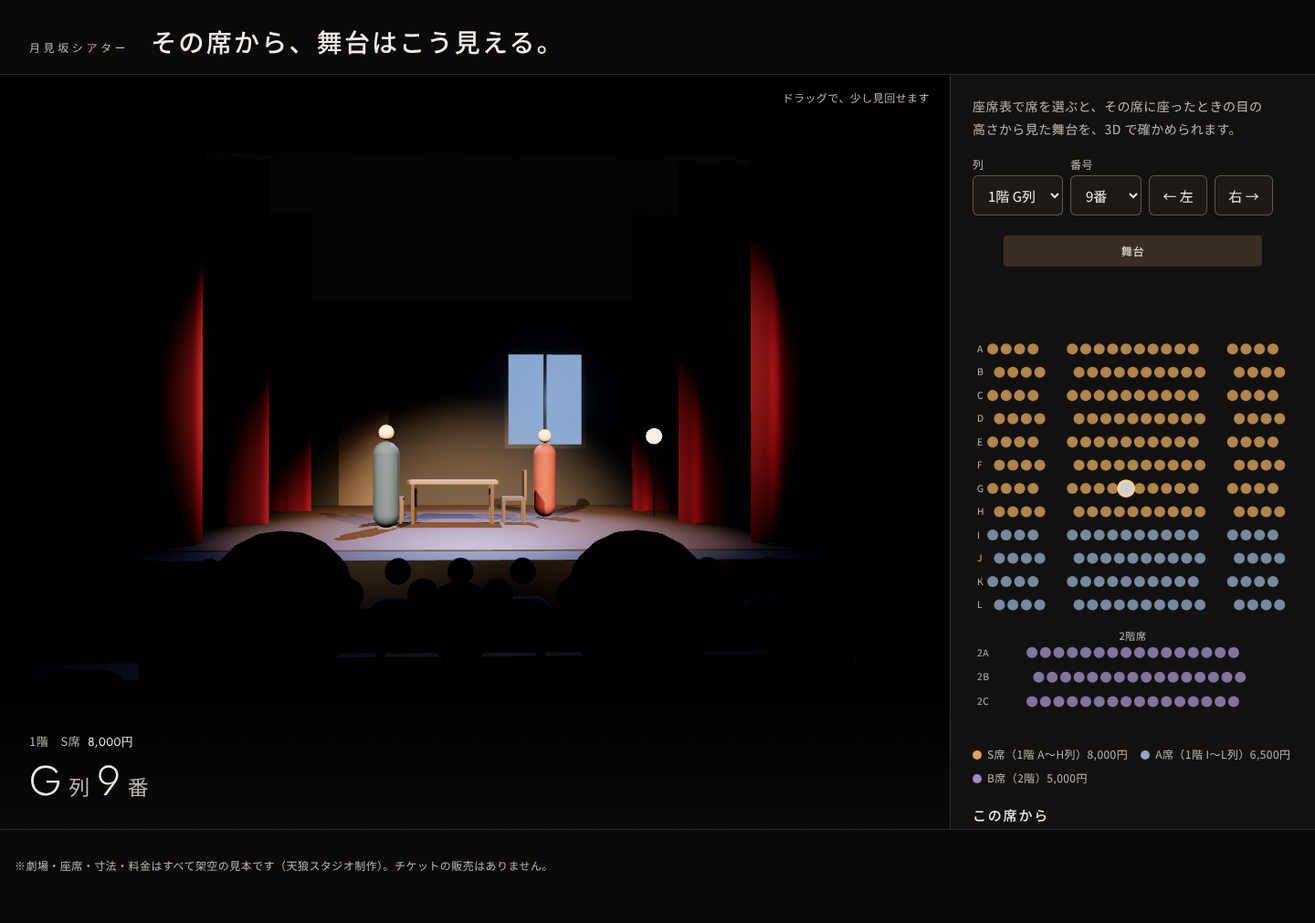
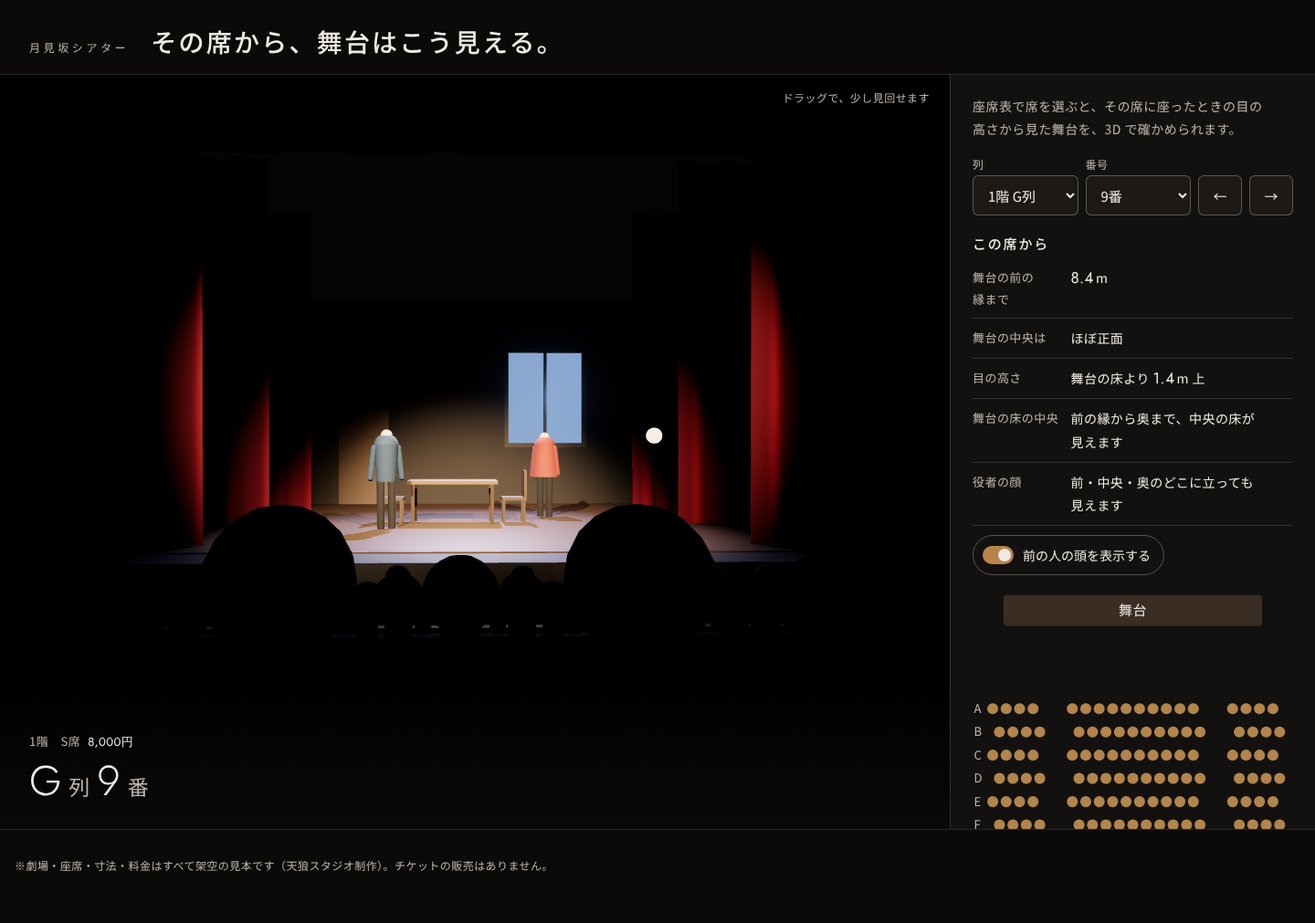
S02-04：審査1回目の指摘を反映（前の人の頭・首・肩と3列前までの視線を3Dで判定、手すりとひさしも同じ判定に、天井高の破綻を直す、人の形の俳優、ひさしで隠れる範囲を帯で示す、座席表を矢印キーで操作、スマホは3Dを上に貼り付け）
Claude-Session: https://claude.ai/code/session_01BwmUGTgfPEj1Tu5124aDtq

diff --git a/studio/projects/S02-04-seatview/site/app.js b/studio/projects/S02-04-seatview/site/app.js
@@ -22,48 +22,62 @@ function fillNum(r, n) { const s = $('num'); s.textContent = ''; for (const x of
 F.zones.forEach(([name, where, price, col]) => { const sp = el('span'); const i = el('i'); i.style.background = col; sp.append(i, `${name}（${where}）${price}`); $('legend').append(sp); });
 
 // 座席表（上が舞台）。1階と2階を縦に並べる
-const NS = 'http://www.w3.org/2000/svg', svg = $('map');
+const NS = 'http://www.w3.org/2000/svg', svg = $('map'); svg.setAttribute('role', 'radiogroup'); svg.setAttribute('aria-label', '座席表（上が舞台）。矢印キーで席を移れます');
 const mk = (t, a) => { const e = document.createElementNS(NS, t); for (const k in a) e.setAttribute(k, a[k]); return e; };
-const SC = 30, X0 = 6.2, BAL_OFF = 4.2;   // 1m＝30、2階は1階の下に寄せて描く
+const SC = 30, X0 = 6.2, BAL_OFF = G.floor_first_z + (G.floor_rows.length - 1) * G.row_pitch + 1.5 - G.balcony_front_z;   // 1m＝30、2階は1階の下に寄せて描く
 const mapY = s => (s.fl === 1 ? s.z : s.z + BAL_OFF) * SC;
 const H = (G.balcony_front_z + .55 + 3 * G.balcony_pitch + BAL_OFF + .4) * SC;
 svg.setAttribute('viewBox', `0 ${-1.6 * SC} ${X0 * 2 * SC} ${H + 1.6 * SC}`);
 svg.append(mk('rect', { x: (X0 - G.stage_width / 2) * SC, y: -1.4 * SC, width: G.stage_width * SC, height: 1.2 * SC, rx: 4, fill: '#3a2e24' }));
-const tx = (x, y, s, a = {}) => { const t = mk('text', { x, y, fill: '#bdb6ab', 'font-size': 13, 'text-anchor': 'middle', 'font-family': 'Noto Sans JP, sans-serif', ...a }); t.textContent = s; svg.append(t); };
+const tx = (x, y, s, a = {}) => { const t = mk('text', { x, y, fill: '#bdb6ab', 'font-size': 16, 'aria-hidden': 'true', 'text-anchor': 'middle', 'font-family': 'Noto Sans JP, sans-serif', ...a }); t.textContent = s; svg.append(t); };
 tx(X0 * SC, -.6 * SC, '舞台', { fill: '#efebe4' });
-tx(X0 * SC, (G.balcony_front_z + BAL_OFF + .05) * SC, '2階席', { 'font-size': 12 });
-for (const r of rows) { const s = rowSeats(r)[0]; tx(.18 * SC, mapY(s) + 4, r, { 'font-size': 11, 'text-anchor': 'start' }); }
+tx(X0 * SC, (G.balcony_front_z + BAL_OFF + .05) * SC, '2階席', { 'font-size': 14 });
+for (const r of rows) { const s = rowSeats(r)[0]; tx(.05 * SC, mapY(s) + 5, r, { 'font-size': 14, 'text-anchor': 'start' }); }
 const dots = {};
 for (const s of seats) {
-  const c = mk('circle', { cx: (s.x + X0) * SC, cy: mapY(s), r: 6.4, fill: F.zones[s.zone][3], class: 's', 'fill-opacity': .8 });
-  c.addEventListener('click', () => select(s.id)); svg.append(c); dots[s.id] = c;
+  const g = mk('g', { class: 's', role: 'radio', tabindex: -1, 'aria-checked': 'false', 'aria-label': `${s.fl === 2 ? '2階 ' : ''}${s.row.replace(/^2/, '')}列${s.n}番 ${F.zones[s.zone][0]}` });
+  const c = mk('circle', { cx: (s.x + X0) * SC, cy: mapY(s), r: 6.4, fill: F.zones[s.zone][3], 'fill-opacity': .8 });
+  g.append(c, mk('circle', { cx: (s.x + X0) * SC, cy: mapY(s), r: 11, fill: 'transparent' }));   // 押せる範囲は見た目より広く
+  g.addEventListener('click', () => select(s.id)); svg.append(g); dots[s.id] = c; g.dataset.id = s.id;
 }
 
 // 計算（模型の寸法から）
 const fmt = v => v.toFixed(1);
+// 前の人の体（座った姿勢）：頭は球、首と肩はカプセル。3D の人形と同じ寸法
+const body = p => { const e = p.y + G.eye; return [{ a: [p.x, e + .03, p.z], b: [p.x, e + .03, p.z], r: .11 }, { a: [p.x, e - .18, p.z], b: [p.x, e - .02, p.z], r: .06 }, { a: [p.x - .2, e - .3, p.z + .02], b: [p.x + .2, e - .3, p.z + .02], r: .12 }]; };
+const sub = (a, b) => [a[0] - b[0], a[1] - b[1], a[2] - b[2]], dot = (a, b) => a[0] * b[0] + a[1] * b[1] + a[2] * b[2];
+function segDist(p1, q1, p2, q2) {   // 2本の線分の最短距離
+  const d1 = sub(q1, p1), d2 = sub(q2, p2), r = sub(p1, p2), a = dot(d1, d1), e = dot(d2, d2), f = dot(d2, r);
+  let s, t; if (e < 1e-9) { s = Math.min(1, Math.max(0, -dot(d1, r) / a)); t = 0; } else { const c = dot(d1, r), b = dot(d1, d2), den = a * e - b * b; s = den > 1e-9 ? Math.min(1, Math.max(0, (b * f - c * e) / den)) : 0; t = (b * s + f) / e; if (t < 0) { t = 0; s = Math.min(1, Math.max(0, -c / a)); } else if (t > 1) { t = 1; s = Math.min(1, Math.max(0, (b - c) / a)); } }
+  const c1 = [p1[0] + d1[0] * s, p1[1] + d1[1] * s, p1[2] + d1[2] * s], c2 = [p2[0] + d2[0] * t, p2[1] + d2[1] * t, p2[2] + d2[2] * t], d = sub(c1, c2); return Math.sqrt(dot(d, d));
+}
+// 目から点 T への視線を、前の人・2階の手すり・ひさしがさえぎるか
+function blocked(s, T) {
+  const E = [s.x, s.y + G.eye, s.z];
+  for (const p of seats) { if (p.fl !== s.fl || p.z >= s.z - .1 || s.z - p.z > 3.2) continue; for (const c of body(p)) if (segDist(E, T, c.a, c.b) < c.r) return 'head'; }
+  const atZ = z => E[1] + (T[1] - E[1]) * (E[2] - z) / (E[2] - T[2]);
+  if (s.fl === 2 && atZ(G.balcony_front_z) < G.balcony_floor + .8) return 'rail';
+  if (s.fl === 1 && s.z > G.balcony_front_z && atZ(G.balcony_front_z) > G.balcony_soffit) return 'soffit';
+  return null;
+}
 function facts(s) {
   const ex = s.x, ey = s.y + G.eye, ez = s.z, out = [];
-  const dx = Math.max(0, Math.abs(ex) - G.stage_width / 2);
-  out.push(['舞台の前の縁まで', [el('b', null, fmt(Math.hypot(dx, ez))), 'm']]);
+  const dx = Math.max(0, Math.abs(ex) - G.stage_width / 2), hd = Math.hypot(dx, ez);
+  out.push(['舞台の前の縁まで', s.fl === 2 ? ['水平に ', el('b', null, fmt(hd)), 'm（目は舞台の床より ', el('b', null, fmt(ey - G.stage_height)), 'm 上）'] : [el('b', null, fmt(hd)), 'm']]);
   const ang = Math.atan2(ex, ez + G.stage_depth / 2) * 180 / Math.PI;
   out.push(['舞台の中央は', Math.abs(ang) < 4 ? 'ほぼ正面' : [`正面から${ang < 0 ? '右' : '左'}へ `, el('b', null, String(Math.round(Math.abs(ang)))), '°']]);
-  const dh = ey - G.stage_height;
-  out.push(['目の高さ', [`舞台の床より `, el('b', null, fmt(Math.abs(dh))), `m ${dh >= 0 ? '上' : '下'}`]]);
-  let sight = '';
+  if (s.fl === 1) { const dh = +fmt(ey - G.stage_height); out.push(['目の高さ', [`舞台の床より `, el('b', null, fmt(Math.abs(dh))), `m ${dh >= 0 ? '上' : '下'}`]]); }
+  // 舞台の床：中央の線で、前の縁から奥へ 10cm ずつ、どこから見えるか
+  let first = null, why = null;
+  for (let d = 0; d <= G.stage_depth; d += .1) { const b = blocked(s, [0, G.stage_height, -d]); if (!b) { first = d; break; } if (!why) why = b; }
+  const by = { head: '前の人の頭や肩', rail: '2階の手すり' };
+  out.push(['舞台の床の中央', first === null ? '見えません（前の人の頭や肩が重なります）' : first < .05 ? '前の縁から奥まで、中央の床が見えます' : [`前の方 `, el('b', null, fmt(first)), `m が、${by[why] || 'さえぎるもの'}で隠れます`]]);
+  // 立っている役者の顔の高さ（床から 1.6m）を、前・中央・奥で
+  const faces = [[0, -1.5], [0, -3.4], [0, -6]].map(([x, z]) => blocked(s, [x, G.stage_height + 1.6, z]));
+  out.push(['役者の顔', faces.every(f => !f) ? '前・中央・奥のどこに立っても見えます' : `${['前', '中央', '奥'].filter((_, k) => faces[k]).join('・')}に立つと、${by[faces.find(f => f)] || 'さえぎるもの'}で隠れることがあります`]);
   if (s.fl === 1 && ez > G.balcony_front_z) {
     const top = G.stage_height + G.pros_height, ymax = ey + (G.balcony_soffit - ey) * ez / (ez - G.balcony_front_z), hid = top - ymax;
-    sight = hid > .05 ? `2階席のひさしで、舞台の口の上 ${fmt(hid)}m（高さ ${G.pros_height}m のうち）が隠れます` : '2階席のひさしの下ですが、舞台の口の上まで見えます';
-  } else if (s.fl === 2) {
-    const rail = G.balcony_floor + .8, slope = (ey - rail) / (ez - G.balcony_front_z), zhit = G.balcony_front_z - (rail - G.stage_height) / slope;
-    sight = zhit > 0 ? '手すり越しに、舞台の前の縁まで見えます' : `手すりで、舞台の前の方 ${fmt(-zhit)}m が隠れます`;
-  } else if (dh < .5) sight = '舞台の床がほぼ目の高さなので、奥の床は見えにくくなります';
-  else sight = '舞台全体が、さえぎるものなく見えます';
-  out.push(['見え方', sight]);
-  if (s.fl === 1 && s.ri > 0) {
-    const f = seats.filter(o => o.fl === 1 && o.ri === s.ri - 1).sort((p, q) => Math.abs(p.x - s.x) - Math.abs(q.x - s.x))[0], headTop = f.y + G.eye + .12;   // 斜め前でいちばん近い人
-    const yl = ey + (G.stage_height - ey) * (G.row_pitch / ez);
-    const gap = Math.abs(f.x - s.x), low = Math.round((headTop - yl) * 100);
-    out.push(['前の席の人', yl > headTop ? '頭越しに、舞台の前の縁まで見えます' : gap > .15 ? `斜め前の人の頭のあいだから、舞台の中央の前の縁まで見えます` : low < 2 ? '頭のてっぺんすれすれで、舞台の前の縁まで見えます' : `頭で、舞台の前の縁が少し隠れます（視線が頭のてっぺんより ${low}cm 低い）`]);
+    out.push(['2階席のひさし', hid > .05 ? ['舞台の口の上 ', el('b', null, fmt(hid)), `m（高さ ${G.pros_height}m のうち）が隠れます`] : '下にありますが、舞台の口の上まで見えます']);
   }
   return out;
 }
@@ -72,15 +86,22 @@ let cur = null, onSelect = () => {};
 function select(id, quiet) {
   const s = byId[id]; if (!s) return; cur = s;
   for (const k in dots) { const d = dots[k], on = k === id; d.setAttribute('fill', on ? '#ffffff' : F.zones[byId[k].zone][3]); d.setAttribute('r', on ? 9 : 6.4); d.setAttribute('stroke', on ? '#ffcf96' : 'none'); d.setAttribute('stroke-width', on ? 3 : 0); }
-  svg.append(dots[id]);
+  svg.querySelectorAll('.s').forEach(g => { const on = g.dataset.id === id; g.setAttribute('aria-checked', String(on)); g.tabIndex = on ? 0 : -1; }); svg.append(dots[id].parentNode);
   $('row').value = s.row; fillNum(s.row, s.n);
   const z = F.zones[s.zone]; $('zone').textContent = `${s.fl === 2 ? '2階' : '1階'}　${z[0]}`; $('zone').append(el('b', null, z[2]));
-  const h = $('seatname'); h.textContent = ''; h.append(s.row.replace(/^2/, ''), el('small', null, '列'), String(s.n), el('small', null, '番'));
+  const h = $('seatname'); h.textContent = ''; if (s.fl === 2) h.append(el('small', 'fl', '2階')); h.append(s.row.replace(/^2/, ''), el('small', null, '列'), String(s.n), el('small', null, '番'));
   const dl = $('info'); dl.textContent = '';
   for (const [k, v] of facts(s)) { const d = el('div'), dd = el('dd'); [].concat(v).forEach(x => dd.append(x)); d.append(el('dt', null, k), dd); dl.append(d); }
   if (!quiet) try { history.replaceState(null, '', `#${id}`); } catch {}
   onSelect(s, quiet);
 }
+svg.addEventListener('keydown', e => {
+  const k = e.key; if (!['ArrowLeft', 'ArrowRight', 'ArrowUp', 'ArrowDown', 'Home', 'End'].includes(k)) return; e.preventDefault();
+  if (k === 'ArrowLeft' || k === 'ArrowRight') step(k === 'ArrowLeft' ? -1 : 1);
+  else if (k === 'Home' || k === 'End') select(`${cur.row}-${k === 'Home' ? 1 : rowSeats(cur.row).length}`);
+  else { const ri = rows.indexOf(cur.row) + (k === 'ArrowUp' ? -1 : 1); if (ri < 0 || ri >= rows.length) return; const near = rowSeats(rows[ri]).sort((a, b) => Math.abs(a.x - cur.x) - Math.abs(b.x - cur.x))[0]; select(near.id); }
+  svg.querySelector(`[data-id="${cur.id}"]`).focus();
+});
 $('row').addEventListener('change', () => { const r = $('row').value, list = rowSeats(r), n = Math.min(cur.n, list.length); select(`${r}-${n}`); });
 $('num').addEventListener('change', () => select(`${cur.row}-${$('num').value}`));
 const step = d => { const list = rowSeats(cur.row), n = Math.min(list.length, Math.max(1, cur.n + d)); select(`${cur.row}-${n}`); };
@@ -122,8 +143,18 @@ select(byId[location.hash.slice(1)] ? location.hash.slice(1) : F.default_seat, t
   chair(-1.5, -3.4, Math.PI / 2); chair(.7, -3.4, -Math.PI / 2);
   add(new THREE.CylinderGeometry(.02, .02, 1.6, 8), std(0x222222, .4, .8), 3.6, SH + .8, -4.5); add(new THREE.SphereGeometry(.16, 16, 12), new THREE.MeshStandardMaterial({ color: 0, emissive: 0xffd8a0, emissiveIntensity: 2 }), 3.6, SH + 1.62, -4.5, false);
   // 俳優（形だけ）
-  const actor = (x, z, c) => { const m = std(c, .8); add(new THREE.CapsuleGeometry(.22, 1.0, 6, 12), m, x, SH + .75, z); add(new THREE.SphereGeometry(.13, 16, 12), std(0xc9a58a, .7), x, SH + 1.62, z); };
-  actor(-1.5, -2.5, 0x2c3e50); actor(1.4, -4.4, 0x6b2d2d);
+  // 俳優（身長 1.65m の人の形。顔は描かず、明かりの当たり方だけ）
+  const actor = (x, z, ry, c, coat) => {
+    const g = new THREE.Group(), cloth = std(c, .75), skin = std(0xb8927a, .65), part = (geo, m, px, py, pz, rx = 0, rz = 0) => { const o = new THREE.Mesh(geo, m); o.position.set(px, py, pz); o.rotation.set(rx, 0, rz); o.castShadow = true; g.add(o); };
+    for (const sx of [-1, 1]) part(new THREE.CylinderGeometry(.07, .06, .82, 10), std(0x1e1c1a, .7), sx * .1, .41, 0);
+    part(new THREE.CylinderGeometry(.21, coat ? .3 : .17, .62, 14), cloth, 0, 1.12, 0);
+    part(new THREE.SphereGeometry(.21, 14, 8, 0, Math.PI * 2, 0, Math.PI / 2), cloth, 0, 1.4, 0);
+    for (const sx of [-1, 1]) part(new THREE.CapsuleGeometry(.05, .5, 4, 8), cloth, sx * .25, 1.12, 0, 0, sx * .12);
+    part(new THREE.CylinderGeometry(.05, .055, .1, 10), skin, 0, 1.47, 0); part(new THREE.SphereGeometry(.1, 18, 14), skin, 0, 1.58, .01);
+    g.position.set(x, SH, z); g.rotation.y = ry; scene.add(g);
+  };
+  actor(-1.5, -2.5, .5, 0x2c3e50, false); actor(1.4, -4.4, -.6, 0x6b2d2d, true);
+  const rimL = new THREE.SpotLight(0xffd6a6, 60, 20, .5, .7, 1.4); rimL.position.set(0, SH + 6, -SD + .8); rimL.target.position.set(0, SH + 1, -3); scene.add(rimL, rimL.target);
 
   // 照明：客席の上の前明かり2台、奥からの明かり、窓の月明かり、客席は暗く
   const spot = (c, I, p, t, a) => { const s = new THREE.SpotLight(c, I, 40, a, .6, 1.2); s.position.set(...p); s.target.position.set(...t); s.castShadow = true; s.shadow.mapSize.set(1024, 1024); s.shadow.bias = -.0005; scene.add(s, s.target); return s; };
@@ -138,27 +169,29 @@ select(byId[location.hash.slice(1)] ? location.hash.slice(1) : F.default_seat, t
   add(new THREE.BoxGeometry(16, .02, 3), carpet, 0, .0, 1.4, false);
   add(new THREE.BoxGeometry(16, .6, 4.4), std(0x1b1513, .9), 0, G.balcony_soffit + .3, G.balcony_front_z + 2.2);
   add(new THREE.BoxGeometry(16, .8, .12), std(0x2a201b, .7), 0, G.balcony_floor + .4, G.balcony_front_z + .05);
+  add(new THREE.BoxGeometry(16, .03, .03), new THREE.MeshStandardMaterial({ color: 0x2a201b, emissive: 0x6a4a2e, emissiveIntensity: 1 }), 0, G.balcony_soffit, G.balcony_front_z - .02, false);   // ひさしの軒先（ここで視界が切れる）
+  const bandM = new THREE.MeshBasicMaterial({ color: 0xffcf96, transparent: true, opacity: 0, depthWrite: false }); const band = new THREE.Mesh(new THREE.PlaneGeometry(SW, 1), bandM); band.position.z = -.24; scene.add(band);
   G.balcony_rows.forEach((_, i) => add(new THREE.BoxGeometry(16, .02 + i * G.balcony_rake, G.balcony_pitch), carpet, 0, G.balcony_floor + i * G.balcony_rake / 2, G.balcony_front_z + .55 + i * G.balcony_pitch, false));
   for (const sx of [-1, 1]) add(new THREE.BoxGeometry(.3, 12, 20), std(0x1e1714, .95), sx * 8, 6, 8, false);
   // 客席の壁の小さな灯り（上演中も足もとのためにごく弱く点いている）
   for (const sx of [-1, 1]) for (const z of [3, 6.5, 10]) { add(new THREE.BoxGeometry(.06, .22, .12), new THREE.MeshStandardMaterial({ color: 0, emissive: 0xffc58a, emissiveIntensity: 1.2 }), sx * 7.83, 2.6, z, false); const l = new THREE.PointLight(0xffb070, .6, 3.5, 2); l.position.set(sx * 7.6, 2.6, z); scene.add(l); }
   const backM = new THREE.MeshStandardMaterial({ color: 0x5a1a1c, roughness: .85 });
   const backs = new THREE.InstancedMesh(new THREE.BoxGeometry(.46, .8, .08), backM, seats.length);
-  const headM = std(0x1a1614, .9), heads = new THREE.InstancedMesh(new THREE.SphereGeometry(.11, 14, 10), headM, seats.length), shoulders = new THREE.InstancedMesh(new THREE.CapsuleGeometry(.12, .2, 4, 8), headM, seats.length);
+  const headM = std(0x1a1614, .9), heads = new THREE.InstancedMesh(new THREE.SphereGeometry(.11, 14, 10), headM, seats.length), shoulders = new THREE.InstancedMesh(new THREE.CapsuleGeometry(.12, .4, 4, 8), headM, seats.length), necks = new THREE.InstancedMesh(new THREE.CylinderGeometry(.06, .06, .16, 10), headM, seats.length);
   shoulders.rotation.z = 0;
   const M = new THREE.Matrix4(), Q = new THREE.Quaternion(), SV = new THREE.Vector3(1, 1, 1), P = new THREE.Vector3();
   seats.forEach((s, k) => { M.compose(P.set(s.x, s.y + .45, s.z + .3), Q, SV); backs.setMatrixAt(k, M); });
-  scene.add(backs, heads, shoulders);
+  scene.add(backs, heads, shoulders, necks);
   const ZERO = new THREE.Vector3(0, 0, 0);
   function placeHeads() {
     seats.forEach((s, k) => {
       // 自分の席と後ろの席は消す。2階から見るときは1階の人も見える。1階から2階の人は見えない
       const show = s !== cur && (s.fl === cur.fl ? s.z < cur.z - .01 : cur.fl === 2);
-      if (!headsShow || !show) { M.compose(P.set(0, -50, 0), Q, ZERO); heads.setMatrixAt(k, M); shoulders.setMatrixAt(k, M); return; }
-      M.compose(P.set(s.x, s.y + G.eye + .03, s.z), Q, SV); heads.setMatrixAt(k, M);
+      if (!headsShow || !show) { M.compose(P.set(0, -50, 0), Q, ZERO); heads.setMatrixAt(k, M); shoulders.setMatrixAt(k, M); necks.setMatrixAt(k, M); return; }
+      M.compose(P.set(s.x, s.y + G.eye + .03, s.z), Q, SV); heads.setMatrixAt(k, M); M.compose(P.set(s.x, s.y + G.eye - .1, s.z), Q, SV); necks.setMatrixAt(k, M);
       M.compose(P.set(s.x, s.y + G.eye - .3, s.z + .02), new THREE.Quaternion().setFromEuler(new THREE.Euler(0, 0, Math.PI / 2)), SV); shoulders.setMatrixAt(k, M);
     });
-    heads.instanceMatrix.needsUpdate = true; shoulders.instanceMatrix.needsUpdate = true;
+    heads.instanceMatrix.needsUpdate = true; shoulders.instanceMatrix.needsUpdate = true; necks.instanceMatrix.needsUpdate = true;
   }
   onHeads = placeHeads;
 
@@ -166,7 +199,12 @@ select(byId[location.hash.slice(1)] ? location.hash.slice(1) : F.default_seat, t
   const look = new THREE.Vector3(0, SH + 1.3, -3.4);
   const eye = new THREE.Vector3(), from = new THREE.Vector3(), to = new THREE.Vector3(); let tw = 1, t0 = 0;
   let yaw = 0, pitch = 0, tyaw = 0, tpitch = 0;
-  onSelect = (s, quiet) => { to.set(s.x, s.y + G.eye, s.z + .05); from.copy(eye); tw = quiet || reduce || !eye.lengthSq() ? 1 : 0; t0 = performance.now(); if (tw >= 1) eye.copy(to); tyaw = 0; tpitch = 0; placeHeads(); };
+  let bandT = -1;
+  onSelect = (s, quiet) => {
+    // ひさしで隠れる範囲を、舞台の口の上に琥珀色の帯で一瞬だけ示す
+    const ey = s.y + G.eye, top = SH + PH, ymax = s.fl === 1 && s.z > G.balcony_front_z ? ey + (G.balcony_soffit - ey) * s.z / (s.z - G.balcony_front_z) : top;
+    if (top - ymax > .05) { band.scale.y = top - ymax; band.position.y = (top + ymax) / 2; bandT = performance.now() + (quiet || reduce ? 0 : 1100); } else bandT = -1;
+    to.set(s.x, s.y + G.eye, s.z + .05); from.copy(eye); tw = quiet || reduce || !eye.lengthSq() ? 1 : 0; t0 = performance.now(); if (tw >= 1) eye.copy(to); tyaw = 0; tpitch = 0; placeHeads(); };
   onSelect(cur, true);
   let drag = null;
   box.addEventListener('pointerdown', e => { drag = { x: e.clientX, y: e.clientY, a: tyaw, b: tpitch }; box.setPointerCapture(e.pointerId); $('drag').classList.add('gone'); });
@@ -183,6 +221,7 @@ select(byId[location.hash.slice(1)] ? location.hash.slice(1) : F.default_seat, t
     yaw += (tyaw - yaw) * .15; pitch += (tpitch - pitch) * .15;
     cam.position.copy(eye); dir.copy(look).sub(eye); const d = dir.length(), az = Math.atan2(dir.x, -dir.z) + yaw, el2 = Math.asin(dir.y / d) - pitch;
     tgt.set(eye.x + Math.sin(az) * Math.cos(el2) * d, eye.y + Math.sin(el2) * d, eye.z - Math.cos(az) * Math.cos(el2) * d); cam.lookAt(tgt);
+    bandM.opacity = bandT < 0 ? 0 : reduce ? .18 : Math.max(0, now - bandT) < 1800 ? .18 * (.5 + .5 * Math.cos(Math.max(0, now - bandT) / 300 * Math.PI * 2)) * (now > bandT ? 1 : 0) : 0;
     r.render(scene, cam); if (!shown) { shown = true; cv.classList.add('ready'); }
     requestAnimationFrame(frame);
   }

diff --git a/studio/projects/S02-04-seatview/site/style.css b/studio/projects/S02-04-seatview/site/style.css
@@ -28,22 +28,26 @@ body { margin: 0; background: var(--bg); color: var(--ink); font: 400 15px/1.8 v
 .zone b { font: 400 13px/1 var(--num); color: var(--ink); margin-left: 8px; }
 .cap h2 { margin: 0; font: 300 clamp(30px, 8vw, 46px)/1.25 var(--num); letter-spacing: .02em; }
 .cap h2 small { font: 400 .5em/1 var(--sans); color: var(--sub); margin: 0 .3em; }
+.cap h2 small.fl { margin: 0 .5em 0 0; color: var(--ink); }
 
 .side { padding: 18px 16px 24px; background: var(--panel); }
 .lead { margin: 0 0 14px; color: var(--sub); font-size: 14px; }
-.pick { display: flex; flex-wrap: wrap; gap: 8px; align-items: end; }
+.pick { display: grid; grid-template-columns: 1fr 1fr 48px 48px; gap: 8px; align-items: end; max-width: 420px; }
+.pick select { width: 100%; }
 .pick label { display: flex; flex-direction: column; font-size: 12px; color: var(--sub); gap: 2px; }
-.pick select, .pick button { min-height: 44px; min-width: 64px; padding: 0 12px; border: 1px solid rgba(239, 235, 228, .3); border-radius: 6px; background: #1c1916; color: var(--ink); font: 400 15px/1 var(--sans); }
+.pick select, .pick button { min-height: 44px; min-width: 44px; padding: 0 12px; border: 1px solid rgba(239, 235, 228, .3); border-radius: 6px; background: #1c1916; color: var(--ink); font: 400 15px/1 var(--sans); }
 .pick button { cursor: pointer; }
 .pick button:hover, .pick select:hover { border-color: var(--amber); }
 .map { margin: 16px 0 0; }
-.map svg { display: block; width: 100%; height: auto; }
+.map svg { display: block; width: 100%; max-width: 520px; height: auto; }
+.map svg .s:focus { outline: none; }
+.map svg .s:focus-visible circle:first-child { stroke: #ffcf96; stroke-width: 3; }
 .map svg .s { cursor: pointer; }
 .legend { display: flex; flex-wrap: wrap; gap: 4px 14px; margin-top: 8px; font-size: 12px; color: var(--sub); }
 .legend i { display: inline-block; width: 10px; height: 10px; border-radius: 50%; margin-right: 6px; vertical-align: -1px; }
 .ih { margin: 20px 0 6px; font: 500 15px/1.4 var(--sans); letter-spacing: .12em; }
 .info { margin: 0; }
-.info div { display: grid; grid-template-columns: 7.5em 1fr; gap: 10px; padding: 9px 0; border-bottom: 1px solid var(--line); }
+.info div { display: grid; grid-template-columns: 6.5em 1fr; gap: 10px; padding: 9px 0; border-bottom: 1px solid var(--line); }
 .info dt { font-size: 13px; color: var(--sub); }
 .info dd { margin: 0; font-size: 14px; }
 .info dd b { font: 400 17px/1 var(--num); margin-right: 2px; }
@@ -55,6 +59,8 @@ body { margin: 0; background: var(--bg); color: var(--ink); font: 400 15px/1.8 v
 .note { margin: 8px 0 0; font-size: 12px; color: var(--sub); }
 .foot { padding: 16px 16px 40px; font-size: 12px; color: var(--sub); border-top: 1px solid var(--line); }
 
+/* スマホでは 3D を上に貼り付け、席を選びながら見られるようにする */
+@media (max-width: 959px) { .view { position: sticky; top: 0; z-index: 3; } .glbox { height: 40svh; min-height: 240px; } .cap { padding: 28px 16px 8px; } }
 @media (min-width: 960px) {
   .top { padding: 22px 32px 16px; display: flex; align-items: baseline; gap: 24px; }
   .app { display: grid; grid-template-columns: 1fr 400px; height: calc(100svh - 74px); }

diff --git a/studio/projects/S02-04-seatview/site/data.js b/studio/projects/S02-04-seatview/site/data.js
@@ -1,2 +1,2 @@
 // facts.json から生成（手で書き換えない）
-export const F = {"theater": "月見坂シアター", "title": "その席から、舞台はこう見える。", "lead": "座席表で席を選ぶと、その席に座ったときの目の高さから見た舞台を、3D で確かめられます。", "geometry": {"stage_height": 0.9, "stage_width": 10, "stage_depth": 8, "pros_height": 6.5, "floor_rows": ["A", "B", "C", "D", "E", "F", "G", "H", "I", "J", "K", "L"], "floor_first_z": 3.0, "row_pitch": 0.9, "rake_from": 3, "rake_step": 0.25, "blocks": [4, 10, 4], "seat_pitch": 0.52, "aisle": 1.0, "balcony_rows": ["2A", "2B", "2C"], "balcony_blocks": [16], "balcony_front_z": 10.0, "balcony_floor": 4.2, "balcony_pitch": 0.95, "balcony_rake": 0.45, "balcony_soffit": 3.6, "eye": 1.15, "stagger": 0.26}, "zones": [["S席", "1階 A〜H列", "8,000円", "#d9a35b"], ["A席", "1階 I〜L列", "6,500円", "#8fa7c4"], ["B席", "2階", "5,000円", "#9b8fc4"]], "default_seat": "G-9", "notes": "見え方は模型からの目安です。目の高さは座面から 1.15m。1階は列ごとに席を半席ずつずらしています。前の人の頭は、全員が座った姿勢で置いています。", "disclosure": "※劇場・座席・寸法・料金はすべて架空の見本です（天狼スタジオ制作）。チケットの販売はありません。"};
+export const F = {"theater": "月見坂シアター", "title": "その席から、舞台はこう見える。", "lead": "座席表で席を選ぶと、その席に座ったときの目の高さから見た舞台を、3D で確かめられます。", "geometry": {"stage_height": 0.9, "stage_width": 10, "stage_depth": 8, "pros_height": 6.5, "floor_rows": ["A", "B", "C", "D", "E", "F", "G", "H", "I", "J", "K", "L"], "floor_first_z": 3.0, "row_pitch": 0.9, "rake_from": 2, "rake_step": 0.22, "blocks": [4, 10, 4], "seat_pitch": 0.52, "aisle": 1.0, "balcony_rows": ["2A", "2B", "2C"], "balcony_blocks": [16], "balcony_front_z": 8.6, "balcony_floor": 5.0, "balcony_pitch": 0.95, "balcony_rake": 0.45, "balcony_soffit": 4.4, "eye": 1.15, "stagger": 0.26}, "zones": [["S席", "1階 A〜H列", "8,000円", "#d9a35b"], ["A席", "1階 I〜L列", "6,500円", "#8fa7c4"], ["B席", "2階", "5,000円", "#9b8fc4"]], "default_seat": "G-9", "notes": "見え方は模型からの目安です。目の高さは座面から 1.15m。1階・2階とも列ごとに席を半席ずつずらしています。前の人（頭・首・肩）は全員が座った姿勢で置き、3列前までの人が視線をさえぎるかを計算しています。", "disclosure": "※劇場・座席・寸法・料金はすべて架空の見本です（天狼スタジオ制作）。チケットの販売はありません。"};

diff --git a/studio/projects/S02-04-seatview/site/index.html b/studio/projects/S02-04-seatview/site/index.html
@@ -28,16 +28,16 @@
     <div class="pick">
       <label>列<select id="row"></select></label>
       <label>番号<select id="num"></select></label>
-      <button type="button" id="prev" aria-label="左の席へ">← 左</button>
-      <button type="button" id="next" aria-label="右の席へ">右 →</button>
+      <button type="button" id="prev" aria-label="左の席へ">←</button>
+      <button type="button" id="next" aria-label="右の席へ">→</button>
     </div>
-    <figure class="map">
-      <svg id="map" role="img" aria-label="座席表。上が舞台。選んでいる席が白い丸です"></svg>
-      <figcaption id="legend" class="legend"></figcaption>
-    </figure>
     <h3 class="ih">この席から</h3>
     <dl class="info" id="info"></dl>
     <button type="button" class="tog" id="heads" aria-pressed="true"><i aria-hidden="true"></i>前の人の頭を表示する</button>
+    <figure class="map">
+      <svg id="map"></svg>
+      <figcaption id="legend" class="legend"></figcaption>
+    </figure>
     <p class="note" id="note"></p>
   </section>
 </main>
